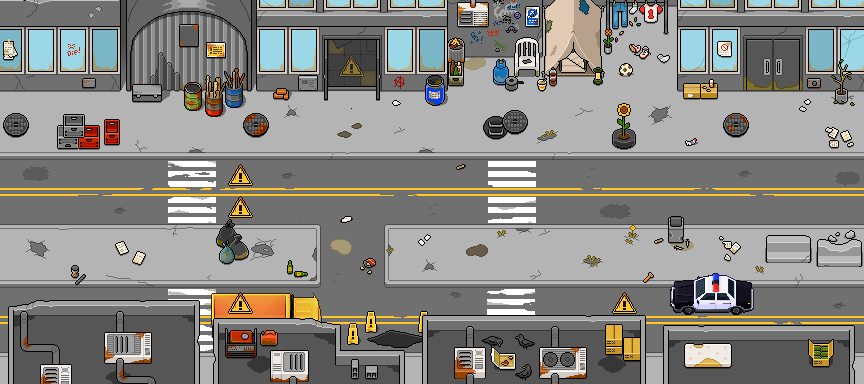
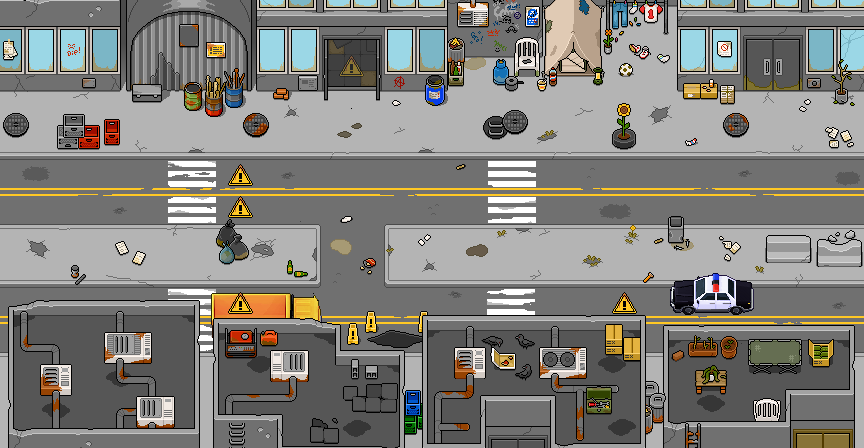
another stage 5 hextension + stage 6 testing

diff --git a/TRASH-TD/Assets/_Project/Scripts/Core/GameLoop/StageBootstrapper.cs b/TRASH-TD/Assets/_Project/Scripts/Core/GameLoop/StageBootstrapper.cs
@@ -579,14 +579,12 @@ namespace TrashTD.Core.GameLoop
             float requiredWorldHeight = (visualHeight + 0.35f) / availableRatio;
             float orthoSize = Mathf.Max(4.10f, requiredWorldHeight * 0.5f);
 
-            // If bounds artwork is present, prevent black void by ensuring the view does not exceed the bounds art in
-            // width or in height (the part under the HUD bars counts: it isn't fully opaque), while keeping the
-            // playable grid visible between the bars
+            // If bounds artwork is present, prevent black void on the sides by ensuring the view
+            // does not exceed the bounds art width, while keeping the playable grid fully visible
             if (stageData.boundsVisualSprite != null && cam.aspect > 0f)
             {
                 float boundsWidth = cameraMaxX - cameraMinX;
-                float boundsHeight = cameraMaxY - cameraMinY;
-                float maxOrthoForBounds = Mathf.Min(boundsWidth / (2f * cam.aspect), boundsHeight * 0.5f);
+                float maxOrthoForBounds = boundsWidth / (2f * cam.aspect);
                 float minOrthoForGrid = ((stageData.gridHeight * cellSize) + 0.35f) / (availableRatio * 2f);
                 if (maxOrthoForBounds >= minOrthoForGrid)
                 {
@@ -598,6 +596,14 @@ namespace TrashTD.Core.GameLoop
             // so visual content is vertically centered in the unobstructed play area
             float hudCenterOffset = ((170f - 90f) / 1080f) * orthoSize;
             float camY = visualCenterY - hudCenterOffset;
+
+            // On stages where the bounds art height is shorter than the camera view (specifically Stage 5 and Stage 6),
+            // snap the top of the bounds art to the bottom of the TopBar so the sprite snaps into place
+            // with no black void at the top.
+            if (stageData.boundsVisualSprite != null && (EnvironmentStageId == "STAGE_05" || EnvironmentStageId == "STAGE_06" || (cameraMaxY - cameraMinY) < (orthoSize * 2f)))
+            {
+                camY = cameraMaxY - orthoSize * (1f - 2f * (90f / 1080f));
+            }
 
             cam.transform.position = new Vector3(centerX, camY, -10f);
             cam.orthographic = true;

diff --git a/TRASH-TD/Assets/_Project/Scripts/Editor/InitialAssetGenerator.cs b/TRASH-TD/Assets/_Project/Scripts/Editor/InitialAssetGenerator.cs
@@ -2208,7 +2208,7 @@ namespace TrashTD.Editor
             stage.visualTilePixelSize = 32;
             stage.visualTileOffset = new Vector2(0, -1);
 
-            // The scenery around the map: the 864x384 expanded art holds the 416x384 map 7 tiles in from the left
+            // The scenery around the map: the 864x448 expanded art holds the 416x384 map 7 tiles in from the left and 3 tiles from the bottom
             var boundsSprites = AssetDatabase.LoadAllAssetsAtPath("Assets/_Project/Art/Levels/Level 5/Level 5 expanded.png");
             if (boundsSprites == null || boundsSprites.Length == 0)
                 boundsSprites = AssetDatabase.LoadAllAssetsAtPath("Assets/_Project/Art/Levels/Level 5/level 5 expanded.png");
@@ -2224,7 +2224,7 @@ namespace TrashTD.Editor
                     }
                 }
             }
-            stage.boundsTileOffset = new Vector2(-7f, -1f);
+            stage.boundsTileOffset = new Vector2(-7f, -3f);
 
             var fgSprites = AssetDatabase.LoadAllAssetsAtPath("Assets/_Project/Art/Levels/Level 5/Level 5 bottom.png");
             if (fgSprites == null || fgSprites.Length == 0)
@@ -2616,6 +2616,24 @@ namespace TrashTD.Editor
                     }
                 }
             }
+
+            // The scenery around the map: the 576x256 extended art holds the 384x256 map 3 tiles in from the left
+            var boundsSprites = AssetDatabase.LoadAllAssetsAtPath("Assets/_Project/Art/Levels/Level 6/Level 6 extended.png");
+            if (boundsSprites == null || boundsSprites.Length == 0)
+                boundsSprites = AssetDatabase.LoadAllAssetsAtPath("Assets/_Project/Art/Levels/Level 6/level 6 extended.png");
+
+            if (boundsSprites != null)
+            {
+                foreach (var obj in boundsSprites)
+                {
+                    if (obj is Sprite s)
+                    {
+                        stage.boundsVisualSprite = s;
+                        break;
+                    }
+                }
+            }
+            stage.boundsTileOffset = new Vector2(-3f, -1f);
 
             stage.backgroundVisualSprite = null;
             stage.upperBackgroundVisualSprites = null;

diff --git a/TRASH-TD/Assets/_Project/Scripts/UI/GameplayPathPreviewOverlay.cs b/TRASH-TD/Assets/_Project/Scripts/UI/GameplayPathPreviewOverlay.cs
@@ -513,7 +513,7 @@ namespace TrashTD.UI
         }
 
         /// <summary>
-        /// Stage 5 traffic car damage indicators at the bottom of the map (row y = -1, below grid boxes).
+        /// Stage 5 traffic car damage indicators at the bottom row of the playable grid (row y = 0).
         /// Shows the true damage ramp (20, 40, 60, 80, 100, 120, 140) under columns 0, 2, 4, 6, 8, 10, 12.
         /// </summary>
         private void BuildStage5DamageNumbers()
@@ -526,7 +526,7 @@ namespace TrashTD.UI
             Color lineColor = Color.white;
             Color textColor = Color.white;
 
-            int bottomRow = stageData.visualTileOffset.y < 0 ? Mathf.RoundToInt(stageData.visualTileOffset.y) : -1;
+            int targetRow = (stageData.visualTileOffset.y < 0 ? Mathf.RoundToInt(stageData.visualTileOffset.y) : -1) + 1;
             int maxBadges = Stage5TrafficCar.DamageRamp.Length;
 
             for (int i = 0; i < maxBadges && (i * 2) < stageData.gridWidth; i++)
@@ -535,7 +535,7 @@ namespace TrashTD.UI
                 int dmg = Stage5TrafficCar.CalculateDamage(col);
                 string text = dmg.ToString();
 
-                Vector3 pos = gridManager.GridToWorldPosition(col, bottomRow);
+                Vector3 pos = gridManager.GridToWorldPosition(col, targetRow);
 
                 var badgeGo = new GameObject("DamageBadge_" + col);
                 badgeGo.transform.SetParent(visualRoot.transform, false);

diff --git a/TRASH-TD/Assets/_Project/Scripts/Core/GameLoop/GameplayCameraController.cs b/TRASH-TD/Assets/_Project/Scripts/Core/GameLoop/GameplayCameraController.cs
@@ -203,11 +203,11 @@ namespace TrashTD.Core.GameLoop
             min = new Vector2(mapBounds.xMin + halfWidth - centre.x, mapBounds.yMin + halfHeight - centre.y);
             max = new Vector2(mapBounds.xMax - halfWidth - centre.x, mapBounds.yMax - halfHeight - centre.y);
 
-            // A view bigger than the bounds on an axis can't be kept inside: centre it there. The limits are exact, they
-            // don't have to include the home framing (offset 0): when the home view itself would show past the bounds
-            // (Stage 5's art is no taller than the view) it is moved inside them.
+            // A view bigger than the bounds on an axis can't be kept inside: centre it horizontally.
+            // On Y, align the top of the bounds artwork to the bottom of the top HUD bar (Stage 5 and 6)
+            // so the sprite snaps on top without black void.
             if (min.x > max.x) min.x = max.x = (min.x + max.x) * 0.5f;
-            if (min.y > max.y) min.y = max.y = (min.y + max.y) * 0.5f;
+            if (min.y > max.y) min.y = max.y = (mapBounds.yMax - size * (1f - 2f * TopHudFraction)) - centre.y;
         }
 
         /// <summary>

diff --git a/TRASH-TD/Assets/_Project/Scripts/UI/StageMapPreview.cs b/TRASH-TD/Assets/_Project/Scripts/UI/StageMapPreview.cs
@@ -866,7 +866,7 @@ namespace TrashTD.UI
             {
                 int col = i * 2;
                 int dmg = Stage5TrafficCar.CalculateDamage(col);
-                Vector2 uiPos = toUi(new Vector2(col + 0.5f, -0.5f));
+                Vector2 uiPos = toUi(new Vector2(col + 0.5f, 0.5f));
                 AddDamageBadge(uiPos, dmg.ToString(), appearBase + i * 0.04f);
             }
         }

diff --git a/PROJECT_GUIDELINES.md b/PROJECT_GUIDELINES.md
@@ -600,9 +600,10 @@ Each asset's `skillDescription` is the authoritative description of that operato
 - **Gameplay camera** (`GameplayCameraController`, added to the main camera by `StageBootstrapper.CenterCameraOnGrid`, which passes the home framing and the camera bounds). It runs on unscaled time.
   - **Bounds art (`StageData.boundsVisualSprite` + `boundsTileOffset`, 2026-11-15):** optional extended artwork around the playable map, outside the playable field. `StageBootstrapper.SpawnVisualGridTiles` draws it as `BoundsArtwork` (sorting order -1, behind the map art, which covers its middle), and `CenterCameraOnGrid` passes the union of the map art and the bounds art as the camera bounds, so look-around and zoomed-in dragging stay inside it (the home framing and zoom still follow the playable map). Used by:
     - **Stage 1:** `Art/Levels/Level 1/Level1 Bounds.png`, 576x416, the 384x224 map sits 3 tiles in from the left, bottom and top, so `boundsTileOffset` is (-3, -3).
-    - **Stage 5:** `Art/Levels/Level 5/Level 5 expanded.png`, 864x384, the 416x384 map sits 7 tiles in from the left, so `boundsTileOffset` is (-7, -1). Overlays (foreground bottom strip and traffic vehicles) remain unchanged over the playable map.
+    - **Stage 5:** `Art/Levels/Level 5/Level 5 expanded.png`, 864x448 (27x14 tiles), the 416x384 map sits 7 tiles in from the left and 3 tiles in from the bottom, so `boundsTileOffset` is (-7, -3). The 64 px bottom extension fills any void around and beside the deck bar. Overlays (foreground bottom strip and traffic vehicles) remain unchanged over the playable map.
     - **Stage 3** (2026-11-15): `Art/Levels/Level 3/Level3 Bounds.png`, 640x416, the 448x224 map sits 3 tiles in on every side, so `boundsTileOffset` is (-3, -3). Here the bounds art is the extended ground layer with see-through windows, so `boundsReplacesMapArtwork` draws it in the map artwork's place (order 1, above the animated background) and the plain `Level3-MainGroundt` layer is not drawn (the camera and the sandstorm still use the map sprite for its extents). The animated acid background (`Level3-Backgroundt.png`) is now 12 frames of 640x416 at the same offset: `backgroundFrameSize` (640, 416) and `backgroundTileOffset` (-3, -3) on the stage, instead of the old fixed 448x224 frames at the grid corner. `Stage3SandstormVisuals` covers the bounds art too.
-    - The camera range is symmetric around the home view, so keep a bounds sprite centred on the map. With bounds art the camera is strict (`Initialize(..., strict: true)`): the WHOLE view, the parts under the HUD bars included, stays inside the bounds (`GetViewLimits`, asymmetric limits around the home framing; the first version only kept the playable area between the bars inside, so the view went past the bottom edge under the deck bar), so no void shows. The limits are exact and need not include the home framing: a home view that would show past the bounds is moved inside them (Stage 5, 2026-11-15: its bounds art is only 12 tiles tall, as tall as the map art, so the view used to show void above and below). `CenterCameraOnGrid` also caps the home `orthoSize` by the bounds art height (not just its width) while the grid still fits between the bars; on Stage 5 that crops the blocked bottom row under the deck bar. At 1x the camera can be dragged through the spare room. `CenterCameraOnGrid` clamps home `orthoSize` to the bounds art width so no black space shows on the sides even on wide aspect ratios, while keeping the full playable grid visible between the HUD bars. `InitialAssetGenerator.GenerateStage` and `GenerateStage5` assign it; the sandbox copies it with the map.
+    - **Stage 6** (2026-11-16): `Art/Levels/Level 6/Level 6 extended.png`, 576x256 (18x8 tiles), the 384x256 map sits 3 tiles (96 px) in from the left and right, so `boundsTileOffset` is (-3, -1). Overlays (foreground bottom strip and midground barrels/signs) remain in the middle over the playable map. `StageBootstrapper` clamps camera ortho based on the extended width without zooming in on height. `Stage6AcidRainVisuals` covers the extended bounds artwork too.
+    - The camera range is symmetric around the home view, so keep a bounds sprite centred on the map. With bounds art the camera is strict (`Initialize(..., strict: true)`): the WHOLE view, the parts under the HUD bars included, stays inside the bounds (`GetViewLimits`, asymmetric limits around the home framing; the first version only kept the playable area between the bars inside, so the view went past the bottom edge under the deck bar), so no void shows. The limits are exact and need not include the home framing. For stages where the bounds art height is shorter than the camera view (Stage 5 and Stage 6, 2026-11-16), `StageBootstrapper` and `GameplayCameraController` snap the top of the bounds art to the bottom of the TopBar (`camY = cameraMaxY - orthoSize * (1f - 2f * (90f / 1080f))`), snapping the sprite on top without void, while Stage 5 traffic damage numbers sit on the bottom playable row (`y = 0`) to remain completely unobstructed above the bottom DeckBar. `CenterCameraOnGrid` clamps home `orthoSize` to the bounds art width so no black space shows on the sides even on wide aspect ratios, while keeping the full playable grid visible between the HUD bars. `InitialAssetGenerator.GenerateStage` and `GenerateStage5` assign it; the sandbox copies it with the map.
   - **No hover / look-around camera** (removed 2026-11-15: it was too finicky). The camera no longer drifts toward the cursor. Fully zoomed out (1×) the view stays on the home framing, unless the stage has bounds art: then there is room to move (`hasPanRoom`, more than 0.25 world units) and the view can be dragged like when zoomed in.
   - **Zoomed in: drag navigation, like the stage-select map.** Drag to pan, with inertia after release (a pause before letting go cancels the fling); the view stays within the map art.
     - A left-drag starts only from the map (not UI) while no card is being placed (`StageBootstrapper.IsPlacementActive`), and only after 8 px of travel, so clicks still select operators and deploy. Right and middle drags always pan.
